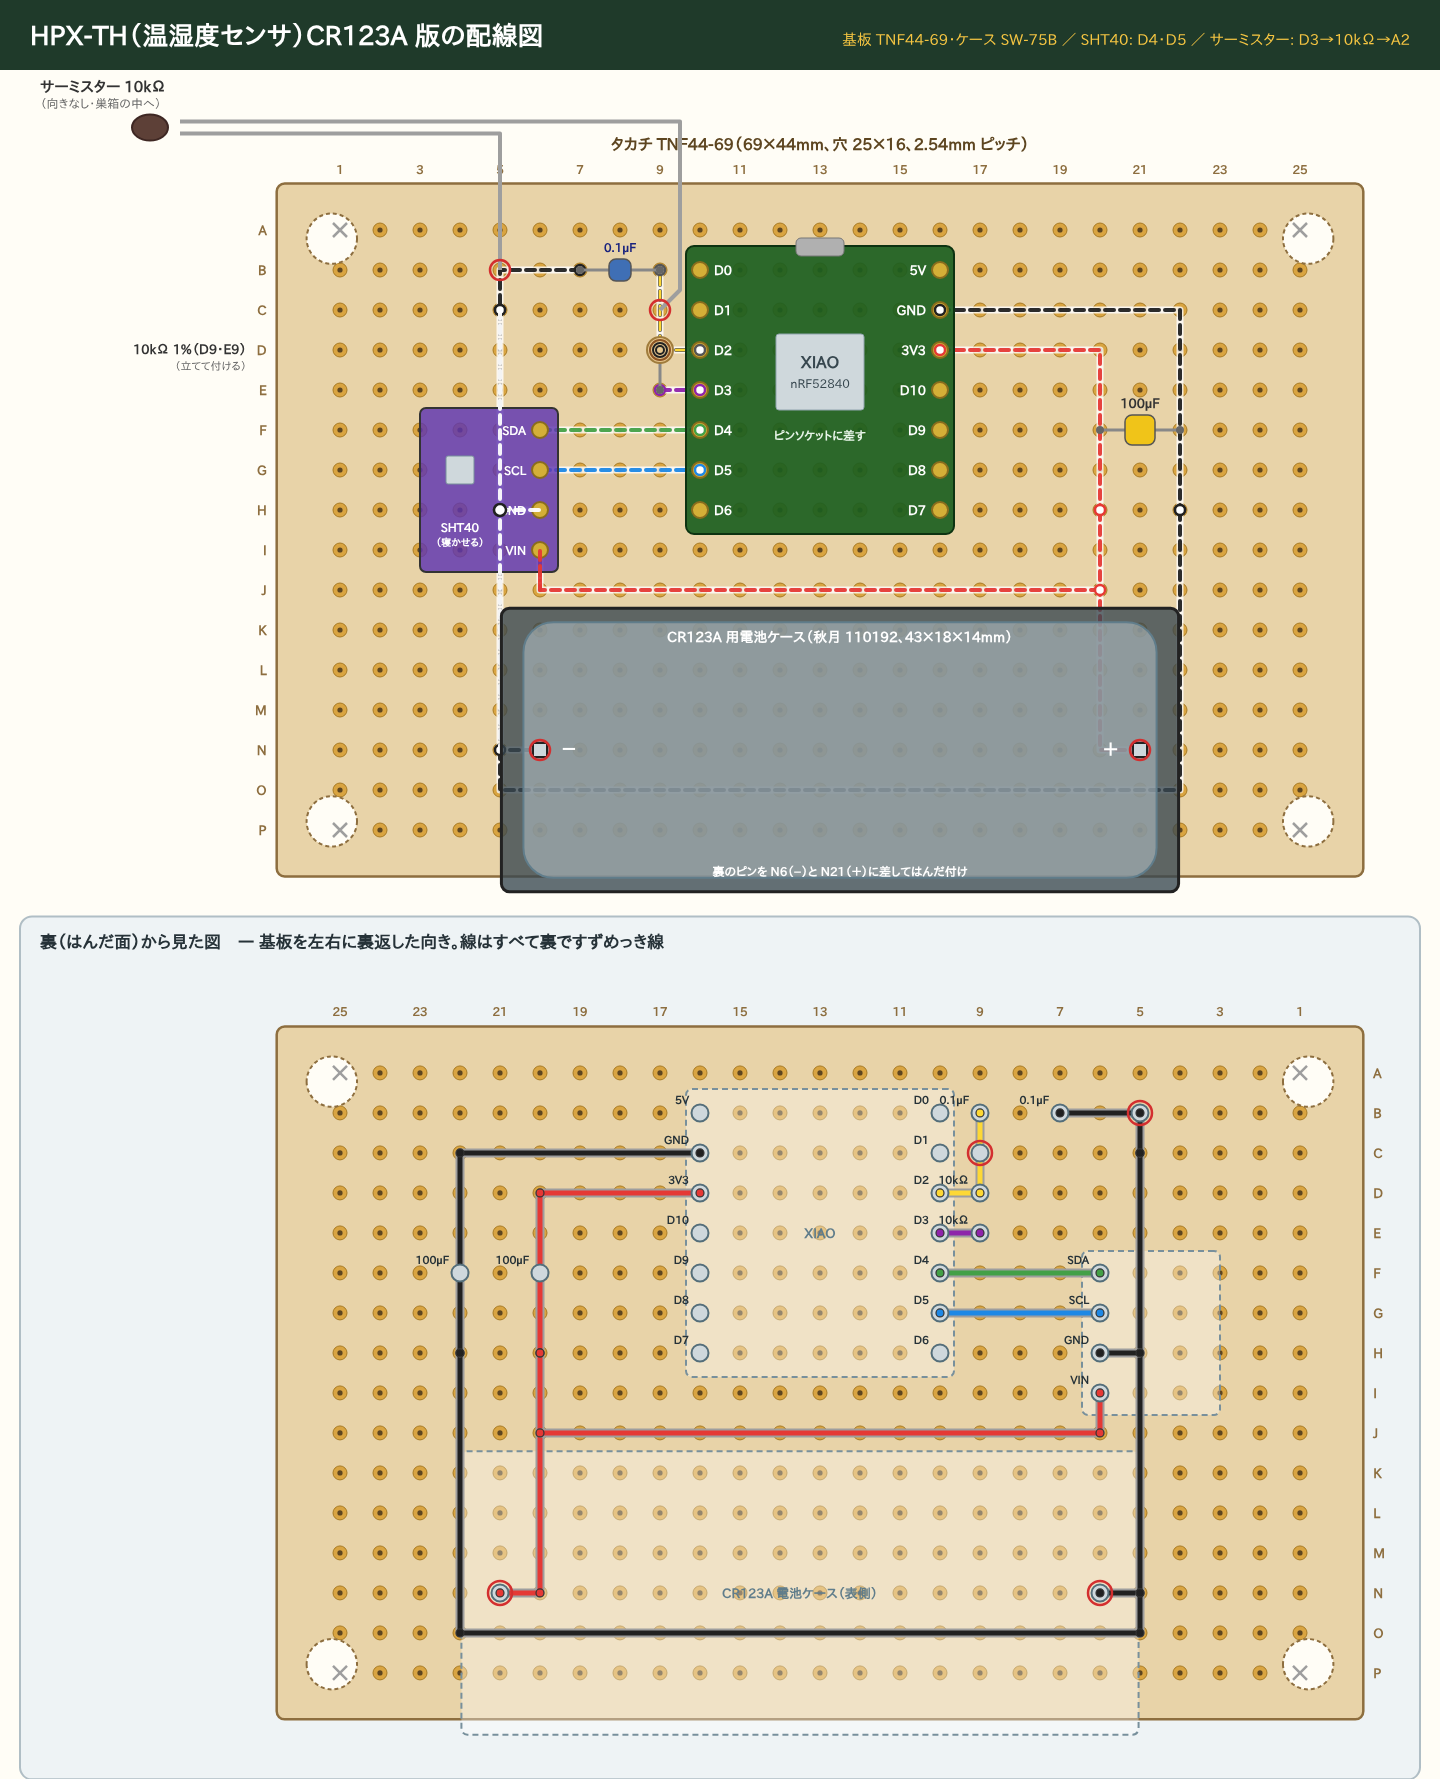
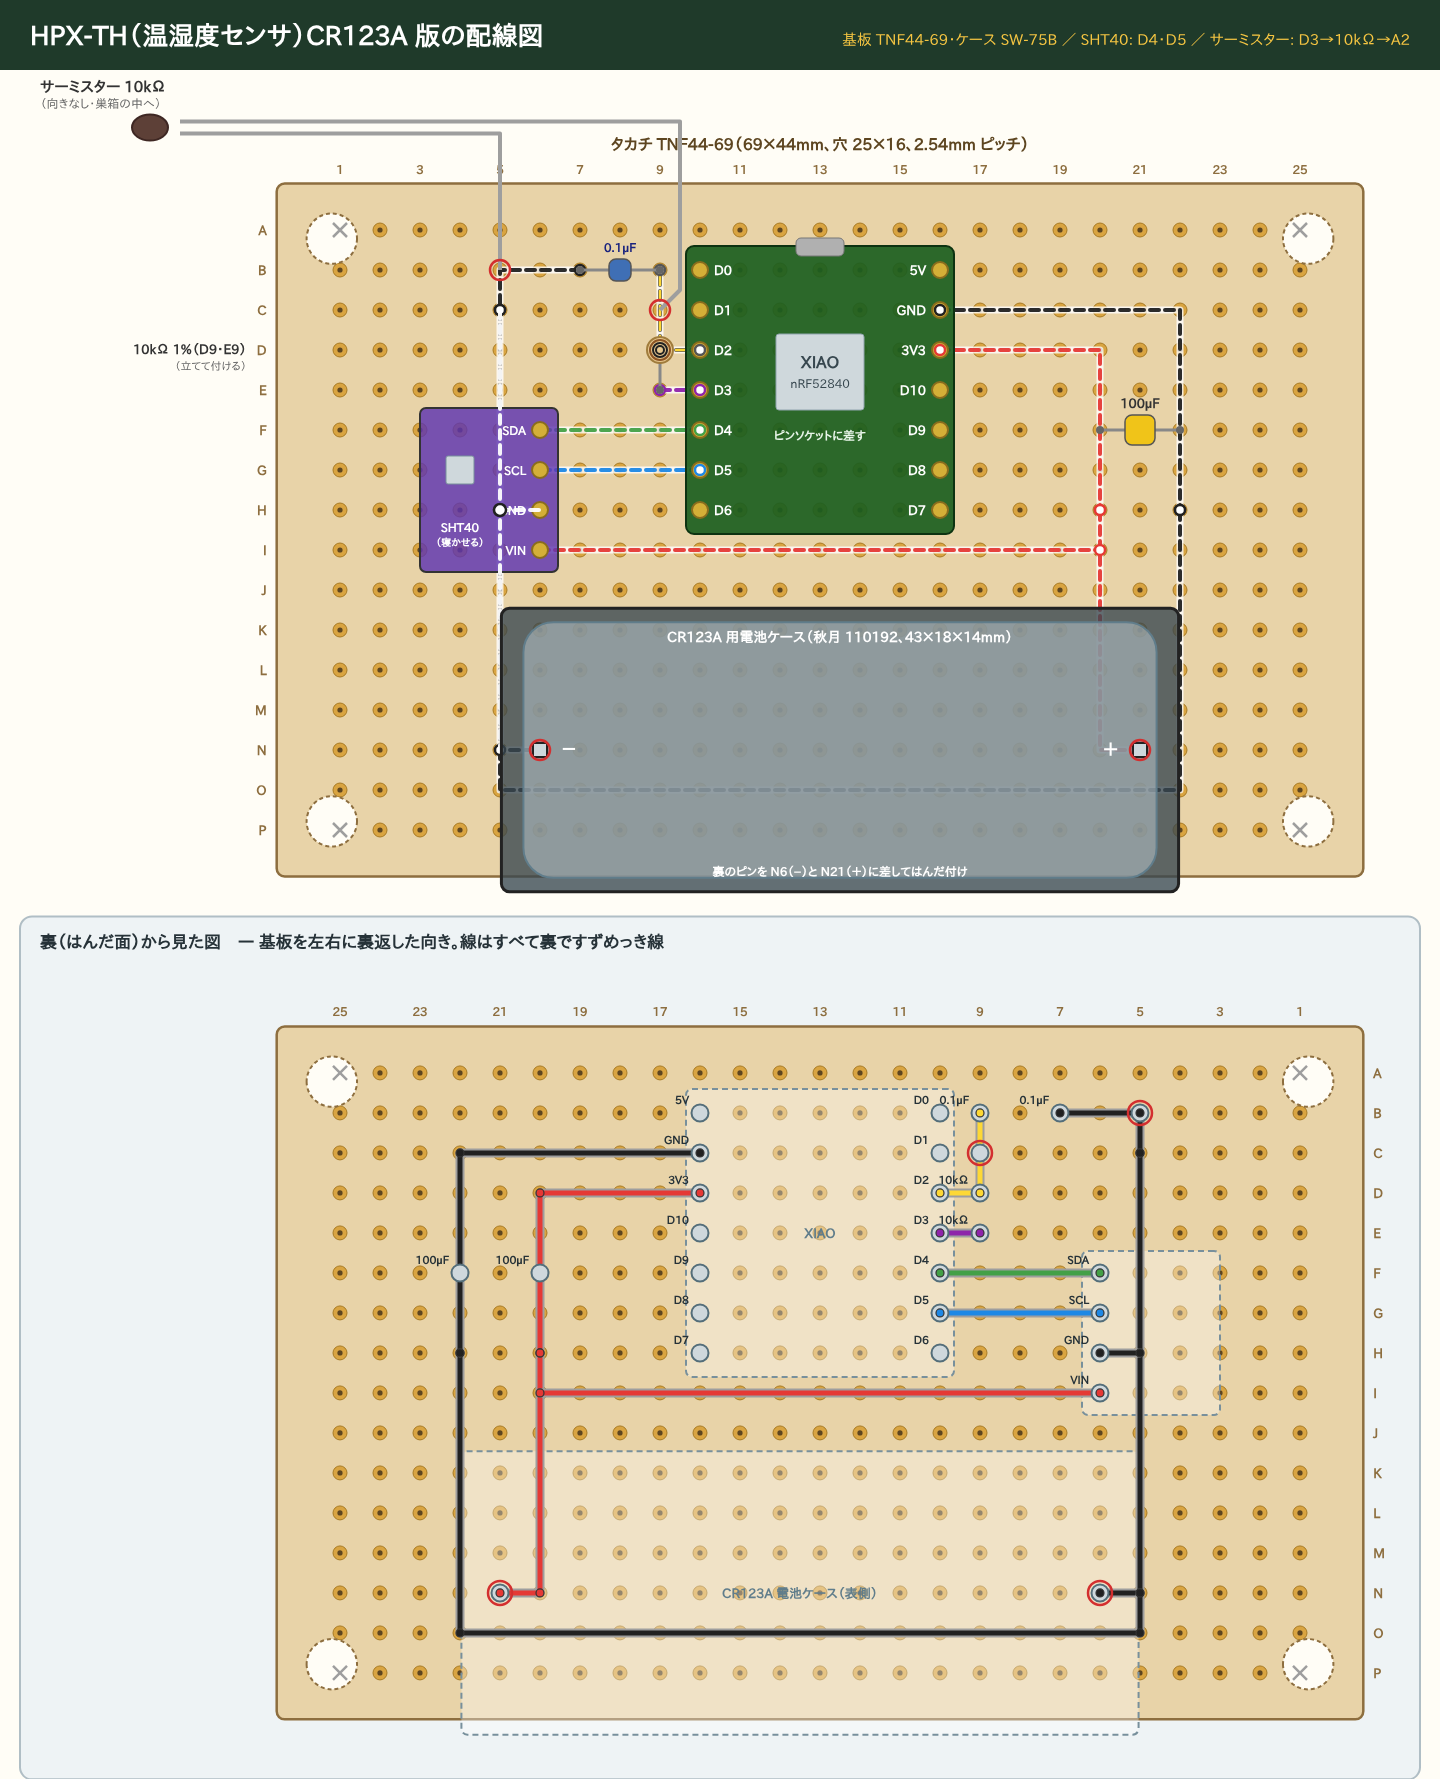
HPX-TH CR123A 版: SHT40 VIN の線を I6 → I20 にする
Claude-Session: https://claude.ai/code/session_01LCC9B49tx6iTQWsNLLe4HY

Changed region(s): [[0.375, 0.7729, 0.7812, 0.8347], [0.375, 0.3092, 0.7812, 0.3401]]

diff --git a/site/device-th.html b/site/device-th.html
@@ -264,7 +264,7 @@ SHT31・SHT41 なども使えます</span><span class="price">2,100円 / 5個入
       <div data-variant="th_cr">
       <div class="wtab"><h3>つなぐ線（穴の位置は 行の文字＋列の数字）</h3><div class="scroll"><table>
         <thead><tr><th>線</th><th>どこから（穴）</th><th>どこへ（穴）</th><th>役目</th></tr></thead>
-        <tbody><tr><td class="wc"><span class="sw" style="background:#43a047"></span>緑</td><td>XIAO D4（F10）</td><td>SHT40 SDA（F6）</td><td>データ（I2C）</td></tr><tr><td class="wc"><span class="sw" style="background:#1e88e5"></span>青</td><td>XIAO D5（G10）</td><td>SHT40 SCL（G6）</td><td>合図（I2C）</td></tr><tr><td class="wc"><span class="sw" style="background:#8e24aa"></span>紫</td><td>XIAO D3（E10）</td><td>10kΩ の下の足（E9）</td><td>測る瞬間だけ電気を流す</td></tr><tr><td class="wc"><span class="sw" style="background:#fdd835"></span>黄</td><td>XIAO D2/A2（D10）</td><td>10kΩ の上の足（D9）→ C9 → B9</td><td>測る点（サーミスターと 0.1µF）</td></tr><tr><td class="wc"><span class="sw" style="background:#212121"></span>黒</td><td>0.1µF の足（B7）</td><td>B5（サーミスター）→ C5</td><td>左側の GND（サーミスターも）</td></tr><tr><td class="wc"><span class="sw" style="background:#212121"></span>黒</td><td>C5</td><td>N5 → 電池ケースの −（N6）</td><td>電池 − を左側の GND へ（H5 を通る）</td></tr><tr><td class="wc"><span class="sw" style="background:#212121"></span>黒</td><td>H5</td><td>SHT40 GND（H6）</td><td>H5 で上の線とはんだ付け</td></tr><tr><td class="wc"><span class="sw" style="background:#212121"></span>黒</td><td>N5</td><td>O5 → O6 → O22 → H22</td><td>電池 − を右側の −の列へ</td></tr><tr><td class="wc"><span class="sw" style="background:#212121"></span>黒</td><td>XIAO GND（C16）</td><td>C22 → H22</td><td>−の列</td></tr><tr><td class="wc"><span class="sw" style="background:#e53935"></span>赤</td><td>XIAO 3V3（D16）</td><td>D20 → H20</td><td>＋の列</td></tr><tr><td class="wc"><span class="sw" style="background:#e53935"></span>赤</td><td>電池ケースの ＋（N21）</td><td>N20 → H20</td><td>電池 ＋ を ＋の列へ</td></tr><tr><td class="wc"><span class="sw" style="background:#e53935"></span>赤</td><td>J20</td><td>J6 → SHT40 VIN（I6）</td><td>SHT40 の電源</td></tr></tbody>
+        <tbody><tr><td class="wc"><span class="sw" style="background:#43a047"></span>緑</td><td>XIAO D4（F10）</td><td>SHT40 SDA（F6）</td><td>データ（I2C）</td></tr><tr><td class="wc"><span class="sw" style="background:#1e88e5"></span>青</td><td>XIAO D5（G10）</td><td>SHT40 SCL（G6）</td><td>合図（I2C）</td></tr><tr><td class="wc"><span class="sw" style="background:#8e24aa"></span>紫</td><td>XIAO D3（E10）</td><td>10kΩ の下の足（E9）</td><td>測る瞬間だけ電気を流す</td></tr><tr><td class="wc"><span class="sw" style="background:#fdd835"></span>黄</td><td>XIAO D2/A2（D10）</td><td>10kΩ の上の足（D9）→ C9 → B9</td><td>測る点（サーミスターと 0.1µF）</td></tr><tr><td class="wc"><span class="sw" style="background:#212121"></span>黒</td><td>0.1µF の足（B7）</td><td>B5（サーミスター）→ C5</td><td>左側の GND（サーミスターも）</td></tr><tr><td class="wc"><span class="sw" style="background:#212121"></span>黒</td><td>C5</td><td>N5 → 電池ケースの −（N6）</td><td>電池 − を左側の GND へ（H5 を通る）</td></tr><tr><td class="wc"><span class="sw" style="background:#212121"></span>黒</td><td>H5</td><td>SHT40 GND（H6）</td><td>H5 で上の線とはんだ付け</td></tr><tr><td class="wc"><span class="sw" style="background:#212121"></span>黒</td><td>N5</td><td>O5 → O6 → O22 → H22</td><td>電池 − を右側の −の列へ</td></tr><tr><td class="wc"><span class="sw" style="background:#212121"></span>黒</td><td>XIAO GND（C16）</td><td>C22 → H22</td><td>−の列</td></tr><tr><td class="wc"><span class="sw" style="background:#e53935"></span>赤</td><td>XIAO 3V3（D16）</td><td>D20 → H20</td><td>＋の列</td></tr><tr><td class="wc"><span class="sw" style="background:#e53935"></span>赤</td><td>電池ケースの ＋（N21）</td><td>N20 → H20</td><td>電池 ＋ を ＋の列へ</td></tr><tr><td class="wc"><span class="sw" style="background:#e53935"></span>赤</td><td>SHT40 VIN（I6）</td><td>I20（＋の線）</td><td>SHT40 の電源</td></tr></tbody>
       </table></div></div>
       <div class="wtab"><h3>部品の置き場所</h3><div class="scroll"><table>
         <thead><tr><th>部品</th><th>数</th><th>置き場所・メモ</th></tr></thead>

diff --git a/hardware/wiring/case/gen_case_pcb.py b/hardware/wiring/case/gen_case_pcb.py
@@ -765,7 +765,7 @@ def make_TH_on(fname):
     wire_back(s, [(2, 6), (3, 6)], "black")                        # F3 → F4 (SHT40 GND)
     wire_back(s, [(2, 12), (2, 13), (19, 13), (19, 6)], "black")   # K4 → L4 → L20 → G20
     wire_back(s, [(18, 12), (17, 12), (17, 6)], "red")             # K19 (電池＋) → K18 → G18
-    wire_back(s, [(17, 8), (3, 8), (3, 7)], "red")                 # I18 → I4 → G4 (SHT40 VIN)
+    wire_back(s, [(3, 7), (17, 7)], "red")                         # I6 (SHT40 VIN) → I20
     # ---- 表の線 ----
     wireh(s, [p["D4"], (3, 4)], "green")
     wireh(s, [p["D5"], (3, 5)], "blue")
@@ -781,7 +781,7 @@ def make_TH_on(fname):
     # SHT40 を寝かせて付ける (ピンは 4 列、本体は左へ)
     flat_module(s, [4, 5, 6, 7], ["SDA", "SCL", "GND", "VIN"], "#5e35b1", 3, "", "", col=3)
     # SHT40 の下を通る裏の線を、本体の上に重ねて見せる
-    for pts, c in (([(2, 1), (2, 12)], "black"), ([(2, 6), (3, 6)], "black"), ([(3, 8), (3, 7)], "red")):
+    for pts, c in (([(2, 1), (2, 12)], "black"), ([(2, 6), (3, 6)], "black")):
         d = "M" + " L".join(f"{H(*q)[0]},{H(*q)[1]}" for q in pts)
         s.top.append(f'<path d="{d}" fill="none" stroke="{COL[c] if c == "red" else "#fff"}" stroke-width="4" stroke-dasharray="9 6" stroke-linecap="round" opacity="0.95"/>')
     x5, y5 = H(2, 6)
@@ -828,7 +828,7 @@ def make_TH_on(fname):
         ["black", f"XIAO GND（{hn(13,1)}）", f"{hn(19,1)} → {hn(19,6)}", "−の列"],
         ["red", f"XIAO 3V3（{hn(13,2)}）", f"{hn(17,2)} → {hn(17,6)}", "＋の列"],
         ["red", f"電池ケースの ＋（{hn(18, 12)}）", f"{hn(17, 12)} → {hn(17,6)}", "電池 ＋ を ＋の列へ"],
-        ["red", f"{hn(17,8)}", f"{hn(3,8)} → SHT40 VIN（{hn(3,7)}）", "SHT40 の電源"],
+        ["red", f"SHT40 VIN（{hn(3,7)}）", f"{hn(17,7)}（＋の線）", "SHT40 の電源"],
     ], [100, 300, 470, 390], "つなぐ線（穴の位置は 行の文字＋列の数字）")
     y = table(s, 60, y + 50, [
         ["部品", "数", "置き場所・メモ"],
